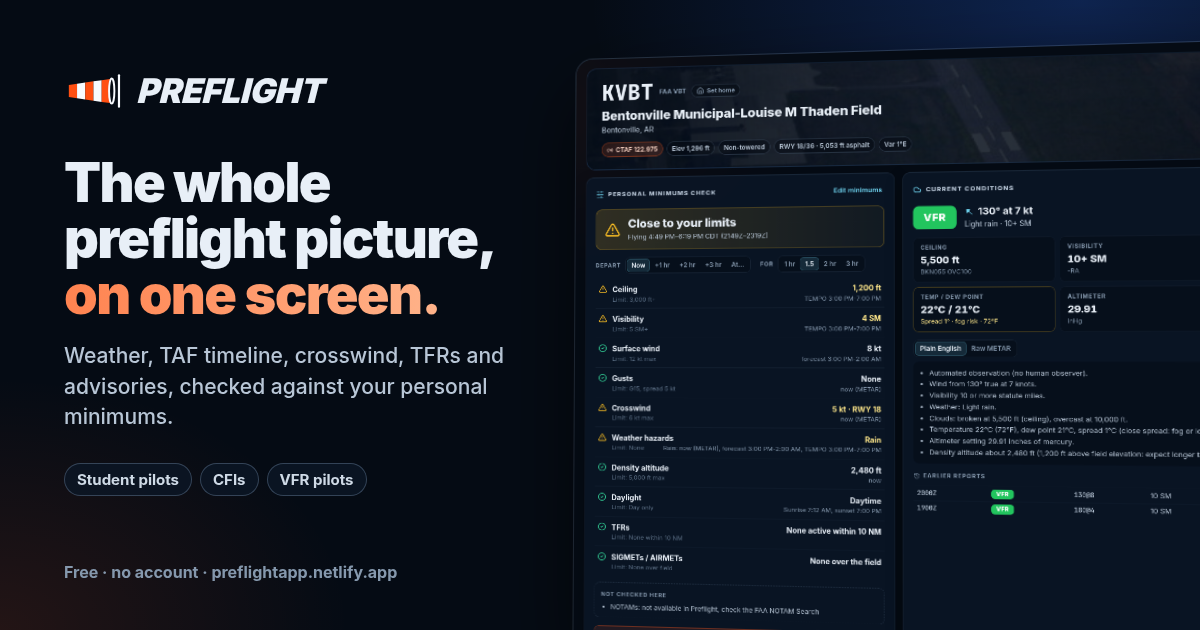
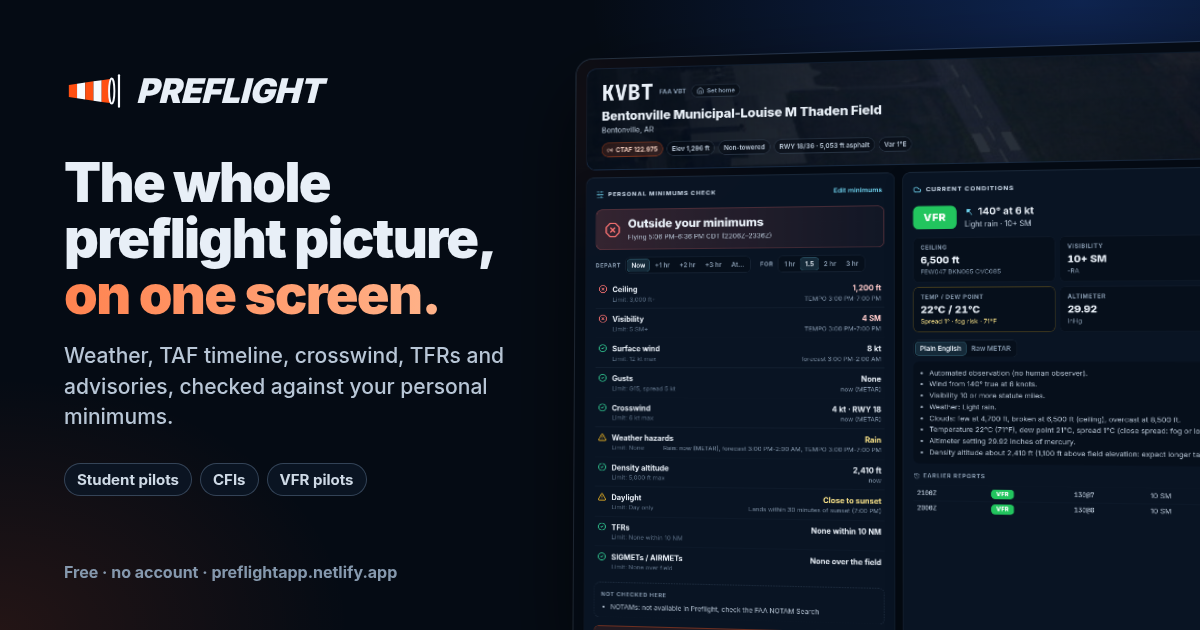
Explain why weather comes from a nearby station; refresh screenshots
The weather function now reports whether the field has no weather
reporting at all or just no current report (e.g. a failed request), and
the conditions card, TAF card and minimums check word the fallback
accordingly. Refresh the README screenshot and social card.

diff --git a/netlify/functions/weather.js b/netlify/functions/weather.js
@@ -67,6 +67,11 @@ export default handler(async (req) => {
     center ? stationsNear(center, TAF_FALLBACK_RADIUS_NM) : Promise.resolve([]),
   ]);
 
+  // Whether the field itself is a reporting station decides how a fallback is
+  // explained: "no weather reporting here" vs "no current report right now".
+  const fieldStation = stations.find((station) => station.icao === icao);
+  const fieldHas = (type) => (fieldStation ? fieldStation.site_types.includes(type) : null);
+
   let metarList = (Array.isArray(metars) ? metars : []).sort((a, b) => Date.parse(b.reportTime) - Date.parse(a.reportTime));
   let metarSource = { icao, name: metarList[0]?.name || null, distance_nm: 0, bearing_deg: null, is_field: true };
 
@@ -76,7 +81,7 @@ export default handler(async (req) => {
       const sorted = (Array.isArray(nearby) ? nearby : []).sort((a, b) => Date.parse(b.reportTime) - Date.parse(a.reportTime));
       if (sorted.length && isRecent(sorted[0])) {
         metarList = sorted;
-        metarSource = { ...station, is_field: false };
+        metarSource = { ...station, is_field: false, reason: fieldHas('METAR') ? 'no_current_report' : 'no_reporting' };
         break;
       }
     }
@@ -90,7 +95,7 @@ export default handler(async (req) => {
       const nearby = await fetchJson(`${API_BASE}/taf?ids=${station.icao}&format=json`).catch(() => []);
       if (Array.isArray(nearby) && nearby[0]) {
         taf = nearby[0];
-        tafSource = { ...station, is_field: false };
+        tafSource = { ...station, is_field: false, reason: fieldHas('TAF') ? 'no_current_report' : 'no_reporting' };
       }
     }
   }

diff --git a/src/components/cards/ConditionsCard.jsx b/src/components/cards/ConditionsCard.jsx
@@ -76,8 +76,9 @@ export function ConditionsCard({ weather, airport, lastSeen, now }) {
       meta={`${formatZulu(metar.observed_utc)} · ${formatLocal(metar.observed_utc, tz)} · ${timeAgo(metar.observed_utc, now)}`}
     >
       {source && !source.is_field ? (
-        <Notice tone="info">
-          {airport?.icao} has no weather reporting. Showing <strong>{source.icao}</strong> ({source.name}), {source.distance_nm} NM {cardinal(source.bearing_deg)}.
+        <Notice tone={source.reason === 'no_current_report' ? 'warning' : 'info'}>
+          {source.reason === 'no_current_report' ? `No current report from ${airport?.icao}.` : `${airport?.icao} has no weather reporting.`}{' '}
+          Showing <strong>{source.icao}</strong> ({source.name}), {source.distance_nm} NM {cardinal(source.bearing_deg)}.
         </Notice>
       ) : null}
       {ageMin > 75 ? <Notice tone="warning">This observation is {ageMin} minutes old. Conditions may have changed.</Notice> : null}

diff --git a/src/components/cards/TafCard.jsx b/src/components/cards/TafCard.jsx
@@ -79,7 +79,8 @@ export function TafCard({ weather, airport, windowRange, now }) {
     >
       {source && !source.is_field ? (
         <Notice tone="info">
-          No TAF for {airport?.icao}. Showing <strong>{source.icao}</strong> ({source.name}), {source.distance_nm} NM {cardinal(source.bearing_deg)}.
+          {source.reason === 'no_current_report' ? `No current TAF from ${airport?.icao}.` : `No TAF for ${airport?.icao}.`}{' '}
+          Showing <strong>{source.icao}</strong> ({source.name}), {source.distance_nm} NM {cardinal(source.bearing_deg)}.
         </Notice>
       ) : null}
 

diff --git a/src/lib/aviation/minimums.js b/src/lib/aviation/minimums.js
@@ -383,7 +383,9 @@ export function evaluateMinimums({
       ...check('wx_source', 'Weather source', 'On-field'),
       status: 'info',
       value: `${metarSource.icao}, ${metarSource.distance_nm} NM ${padHeading(metarSource.bearing_deg)}°`,
-      note: 'This airport has no weather reporting; nearest station shown',
+      note: metarSource.reason === 'no_current_report'
+        ? 'No current report from this airport; nearest station shown'
+        : 'This airport has no weather reporting; nearest station shown',
     });
   }
 
